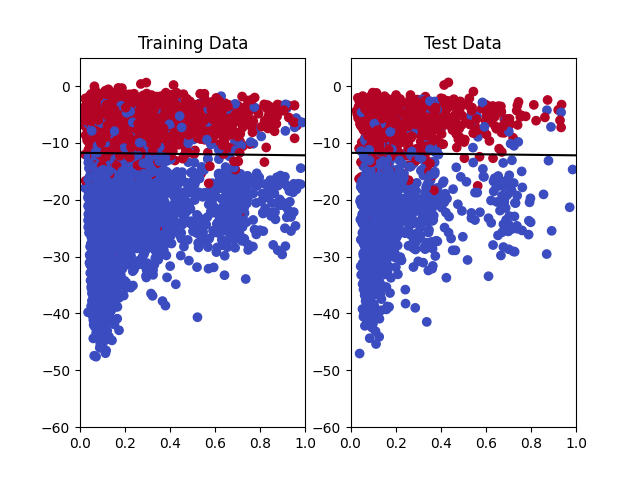
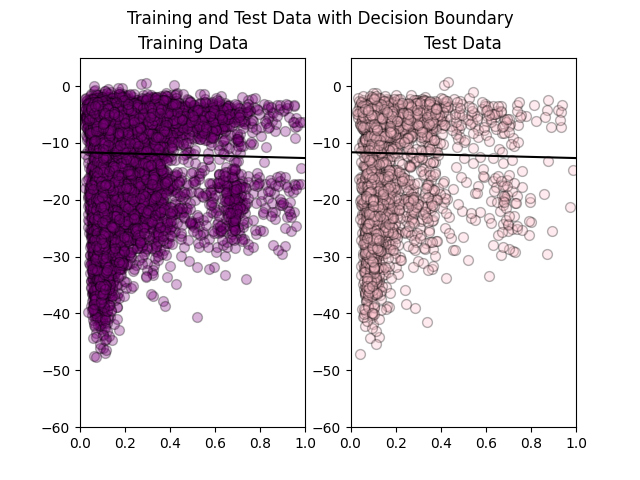
think the plots are good now

diff --git a/A1/src/plot.py b/A1/src/plot.py
@@ -9,6 +9,13 @@ class Plots():
         self.plot_directory="../plots"
 
 
+        # Define the colors for the plots
+        self.color_pop = 'purple'           # Color for Pop data points
+        self.color_classical = 'pink'       # Color for Classical data points
+        self.color_accuracy = 'purple'      # Color for Accuracy line
+        self.color_loss = 'pink'            # Color for Loss line
+
+
     def scatter_plot(self, plot_title, data, save_plot=True):
         """
         Plots the data on a 2D plane with 'liveness' on the x-axis and 'loudness' on the y-axis.
@@ -21,8 +28,8 @@ class Plots():
 
         pop_data = self.data[self.data['genre'] == 1]
         classical_data = self.data[self.data['genre'] == 0]
-        plt.scatter(pop_data['liveness'], pop_data['loudness'], color='purple', edgecolor='black', label='Pop', alpha=0.3, s=50)
-        plt.scatter(classical_data['liveness'], classical_data['loudness'], color='pink', edgecolor='black', label='Classical', alpha=0.3, s=50)
+        plt.scatter(pop_data['liveness'], pop_data['loudness'], color=self.color_pop, edgecolor='black', label='Pop', alpha=0.3, s=50)
+        plt.scatter(classical_data['liveness'], classical_data['loudness'], color=self.color_classical, edgecolor='black', label='Classical', alpha=0.3, s=50)
         plt.title(plot_title, fontsize=15)
         plt.xlabel('Liveness', fontsize=12)
         plt.ylabel('Loudness', fontsize=12)
@@ -56,9 +63,6 @@ class Plots():
         print(f"Plot saved to {self.plot_directory}/{plot_filename}")
 
 
-    def plot_data(self):
-        pass
-        
 
     # 2c
     def plot_decision_boundary(self, model, preprocessing):
@@ -73,18 +77,19 @@ class Plots():
         plt.show()
 
     def subplots(self, X_train, y_train, X_test, y_test, model, plot_title='Training and Test Data with Decision Boundary'):
-        # plot test og training scatter ved siden av hverandre med linje 
         plt.suptitle(plot_title)
 
         plt.subplot(1,2, 1)
-        plt.scatter(X_train['liveness'], X_train['loudness'], c=y_train, cmap='coolwarm')
+        # plt.scatter(pop_data['liveness'], pop_data['loudness'], color=self.color_pop, edgecolor='black', label='Pop', alpha=0.3, s=50)
+
+        plt.scatter(X_train['liveness'], X_train['loudness'],  color=self.color_pop, edgecolor='black', label='Pop', alpha=0.3, s=50)
         plt.axline(xy1=[0,-model.bias[0]/model.weight[1,0]], xy2=[-model.bias[0]/model.weight[0,0],0], color='black')
         plt.xlim(0,1)
         plt.ylim(-60,5)
         plt.title('Training Data')
 
         plt.subplot(1,2, 2)
-        plt.scatter(X_test['liveness'], X_test['loudness'], c=y_test, cmap='coolwarm')
+        plt.scatter(X_test['liveness'], X_test['loudness'], color=self.color_classical, edgecolor='black', label='Classical', alpha=0.3, s=50)
         plt.title('Test Data')
         plt.axline(xy1=[0,-model.bias[0]/model.weight[1,0]], xy2=[-model.bias[0]/model.weight[0,0],0], color='black')
         plt.xlim(0,1)
@@ -98,13 +103,13 @@ class Plots():
          # Plot 
         plt.suptitle('Loss vs accuracy')
         plt.subplot(1,2,1)
-        plt.plot(accuracy_list)
+        plt.plot(accuracy_list, color=self.color_accuracy)
         plt.xlabel('Epoch')
         plt.ylabel('Accuracy')
         plt.title('Accuracy')
 
         plt.subplot(1,2,2) 
-        plt.plot(loss_list)
+        plt.plot(loss_list, color=self.color_loss)
         plt.xlabel('Epoch')
         plt.ylabel('Loss')
         plt.title('Loss')
@@ -123,9 +128,10 @@ class Plots():
             A 2x2 matrix with [TN, FP; FN, TP].
         '''
         plt.figure(figsize=(6,4))
-        sns.heatmap(confusion_matrix, annot=True, fmt='d', cmap='Blues', cbar=False,
-                    xticklabels=['Predicted 0', 'Predicted 1'], 
-                    yticklabels=['Actual 0', 'Actual 1'])
+        sns.heatmap(confusion_matrix, annot=True, fmt='d', cmap='magma', cbar=False,
+            xticklabels=['Predicted 0', 'Predicted 1'], 
+            yticklabels=['Actual 0', 'Actual 1'])
+
 
         plt.xlabel('Predicted')
         plt.ylabel('Actual')

diff --git a/A1/src/main.py b/A1/src/main.py
@@ -45,11 +45,8 @@ if __name__ == "__main__":
 
     
 
-    # Calculate and print the confusion matrix
-
-    # TODO: feil type
+    # Calculate and plot the confusion matrix
     conf_matrix = model.confusion_matrix(y_test)
-    print(conf_matrix)
     plot.plot_confusion_matrix(conf_matrix)
 
 

diff --git a/A1/src/machineLearning.py b/A1/src/machineLearning.py
@@ -150,3 +150,9 @@ class Perceptron():
         
         return confusion_matrix
     
+    def find_difficult_songs(X_test, y_test, y_hat):        
+        """
+        """
+        pass 
+
+
